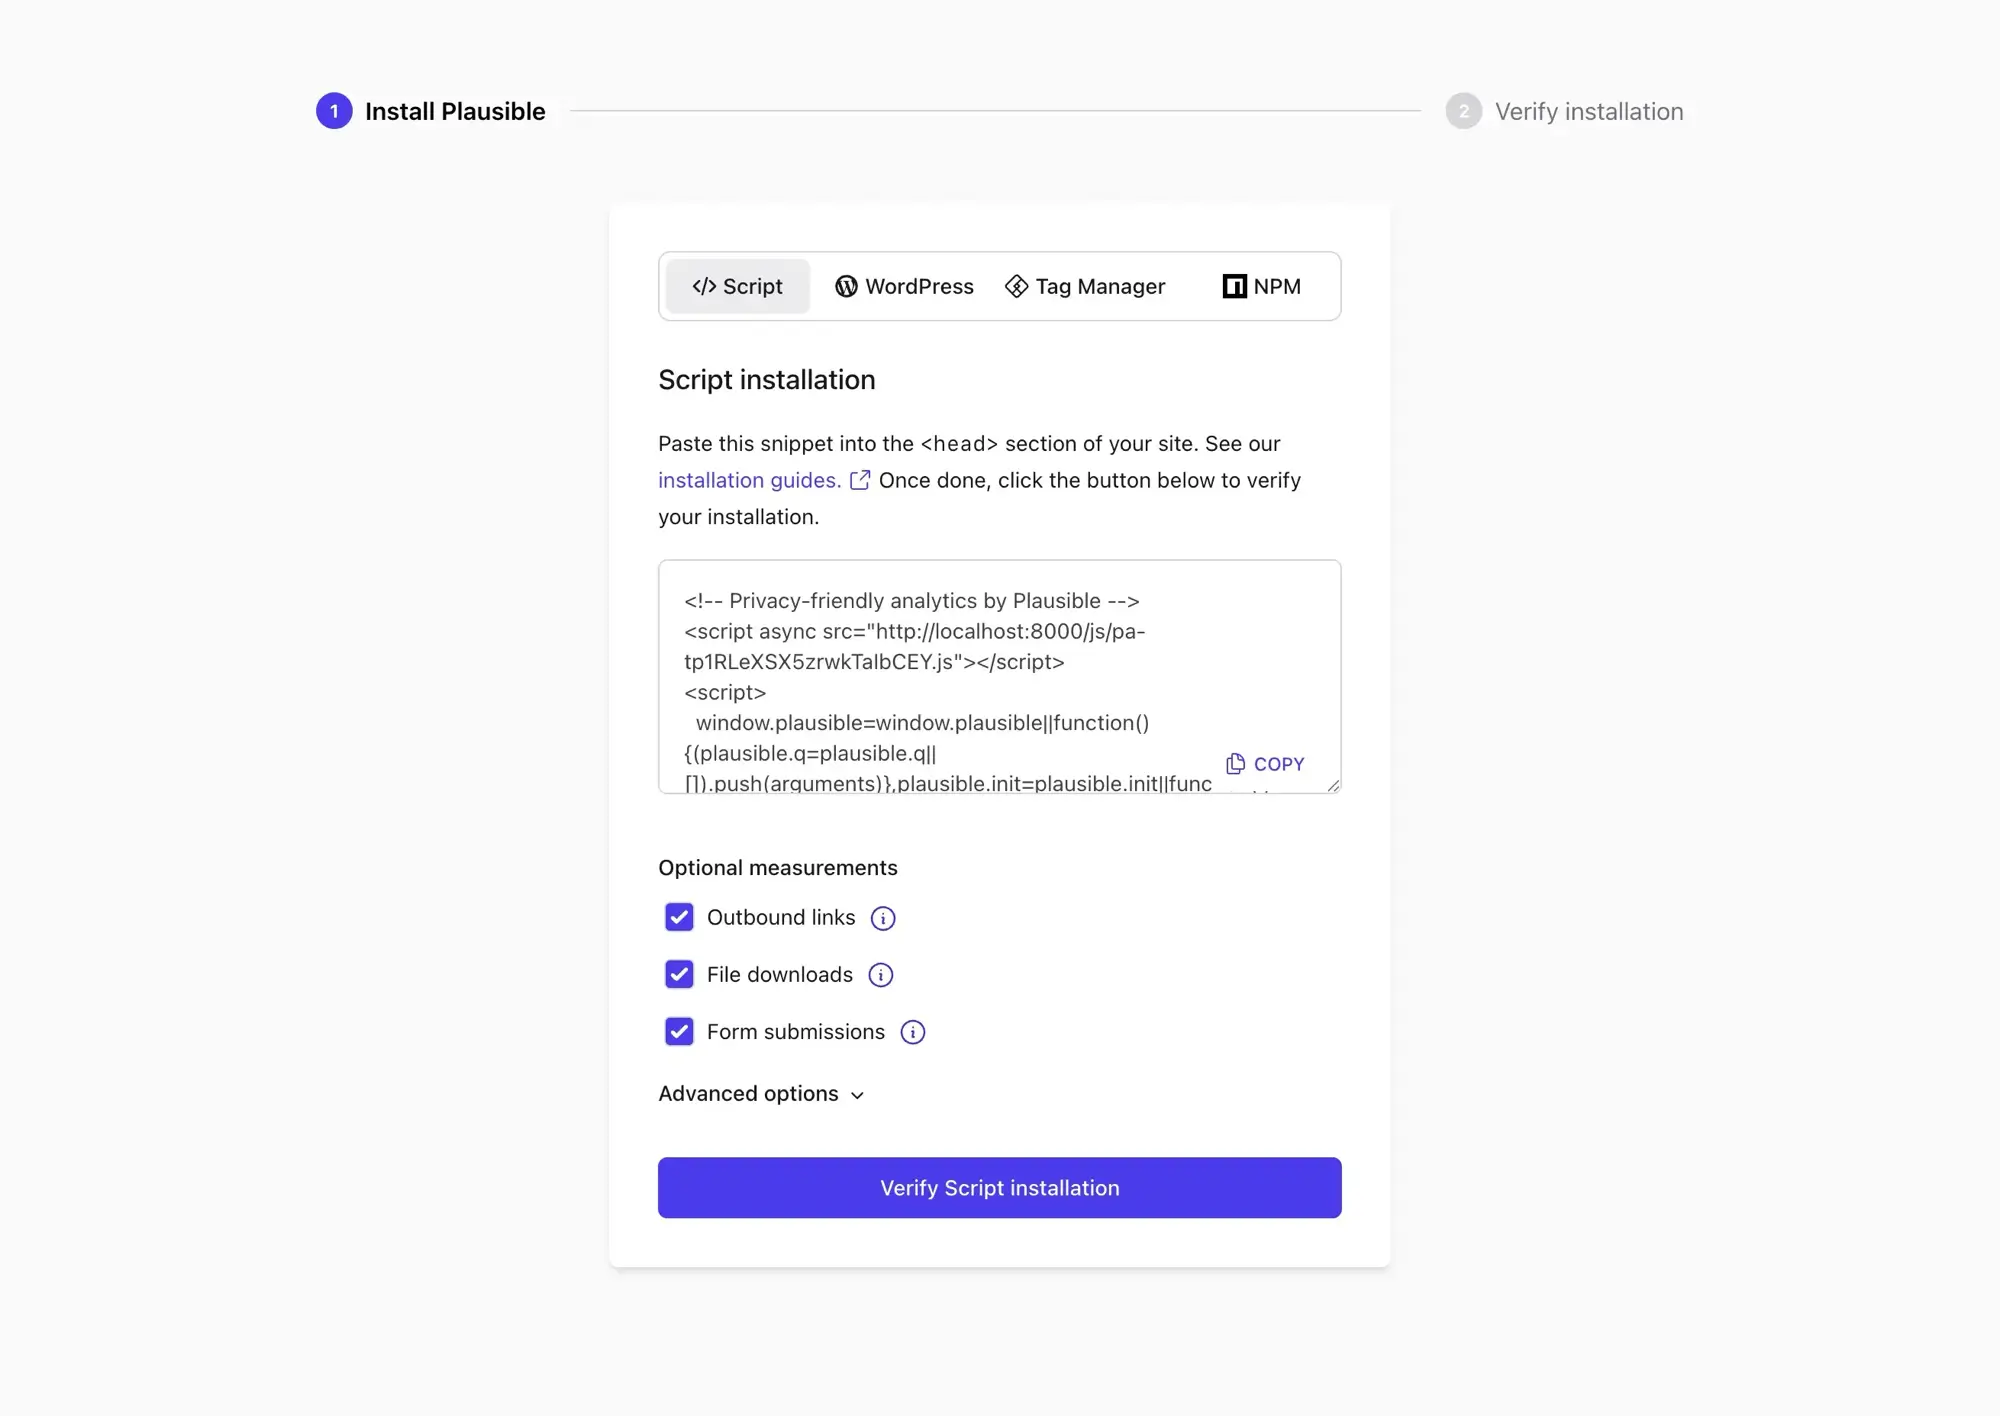
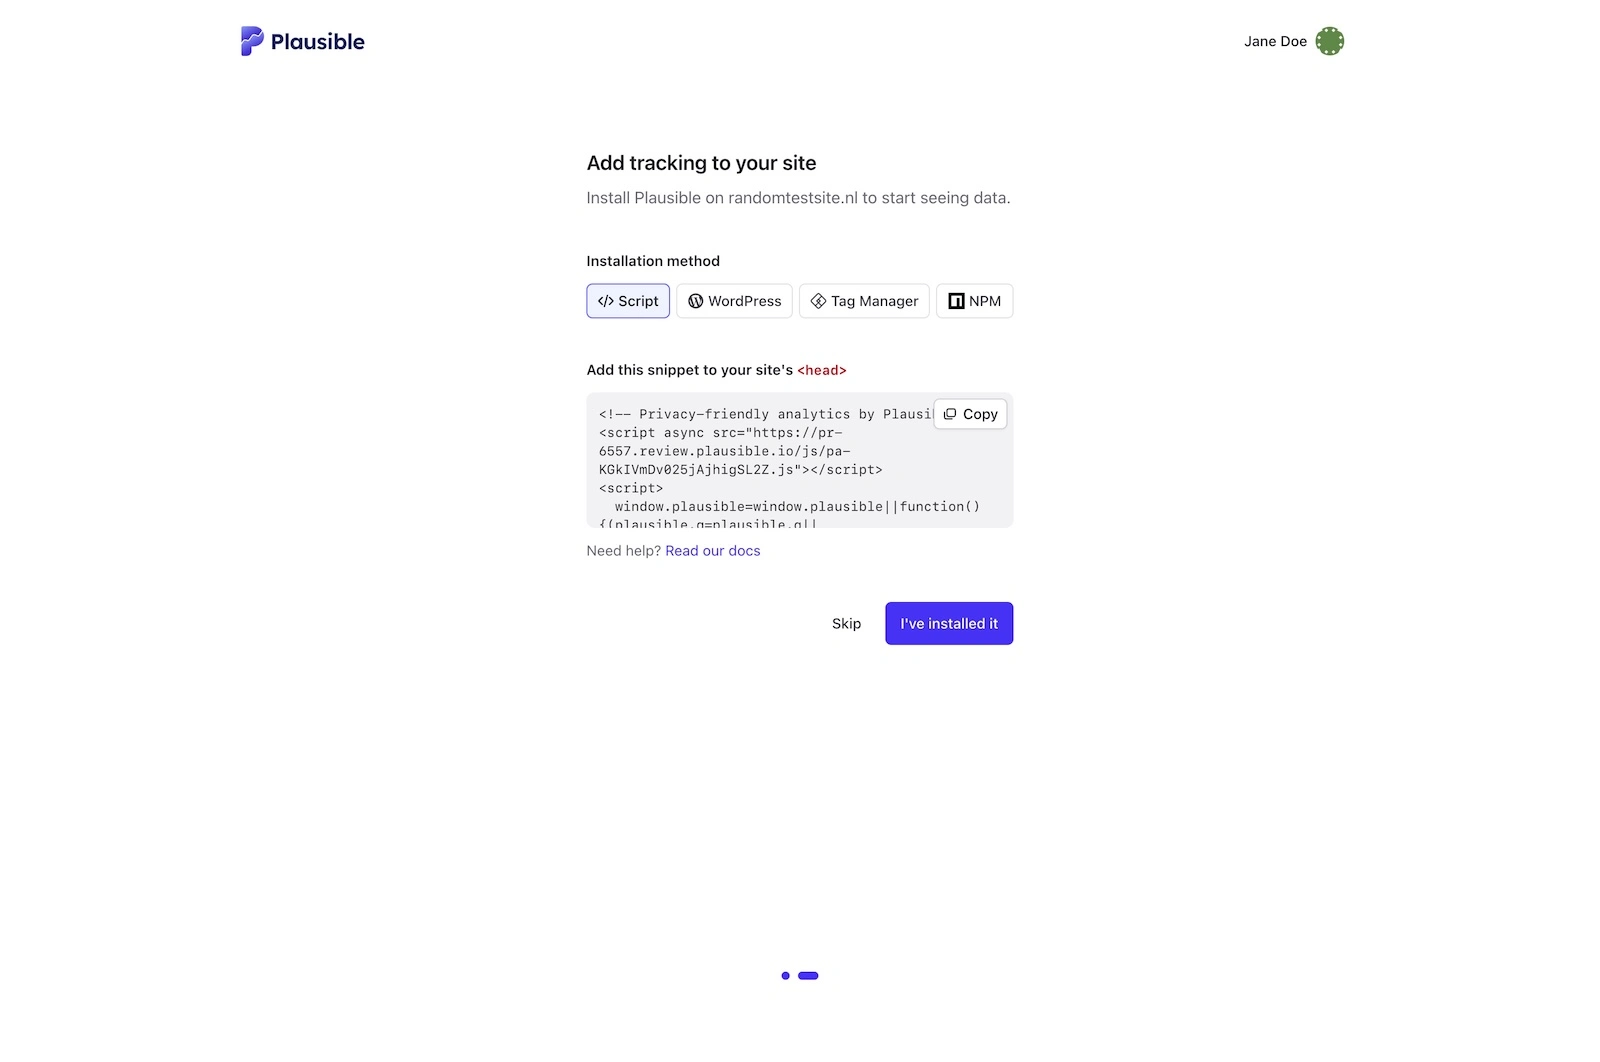
update docs

diff --git a/docs/add-website.md b/docs/add-website.md
@@ -1,6 +1,6 @@
 ---
 title: Add your website details
-description: "Add your website to Plausible Analytics. Set your domain, configure timezone, and handle subdomains. Your first step before installing the tracking snippet."
+description: "Add your website to Plausible Analytics. Set your domain and handle subdomains. Your first step before installing the tracking snippet."
 ---
 
 import useBaseUrl from '@docusaurus/useBaseUrl';
@@ -18,13 +18,3 @@ If you'd like to track a particular subdomain independently from the rest of you
 :::tip Advanced: the domain field works like a site ID
 In some setups, you may want to track traffic under a different domain than where the snippet is installed. For example, if you run country-specific domains (`example.de`, `example.nl`) you can point them all at a single Plausible site to collect stats in one place. This is only recommended if you want everything in one dashboard without separate per-domain dashboards. In that case, the domain field acts as an identifier rather than an exact match. [See how to track multiple country or language domains](subdomain-hostname-filter.md#tracking-multiple-country-or-language-domains).
 :::
-
-## Select your reporting timezone
-
-You need to select your reporting timezone too. This sets the day boundary of your reports regardless of where your traffic is coming from.
-
-For instance, if you select **(GMT+01:00) Amsterdam, Berlin…** then the beginning and the end of each day of your reporting is calculated based on the time in Amsterdam, even if your visitors come from London or New York.
-
-The best practice is to set the timezone that reflects the location of your audience or if the audience is very broad and spread across the world to set the timezone of your location.
-
-Click on the **Add snippet** button to go to the next step where we will provide you with the tracking snippet that you need to [insert into your site](plausible-script.md) to start counting your stats.
